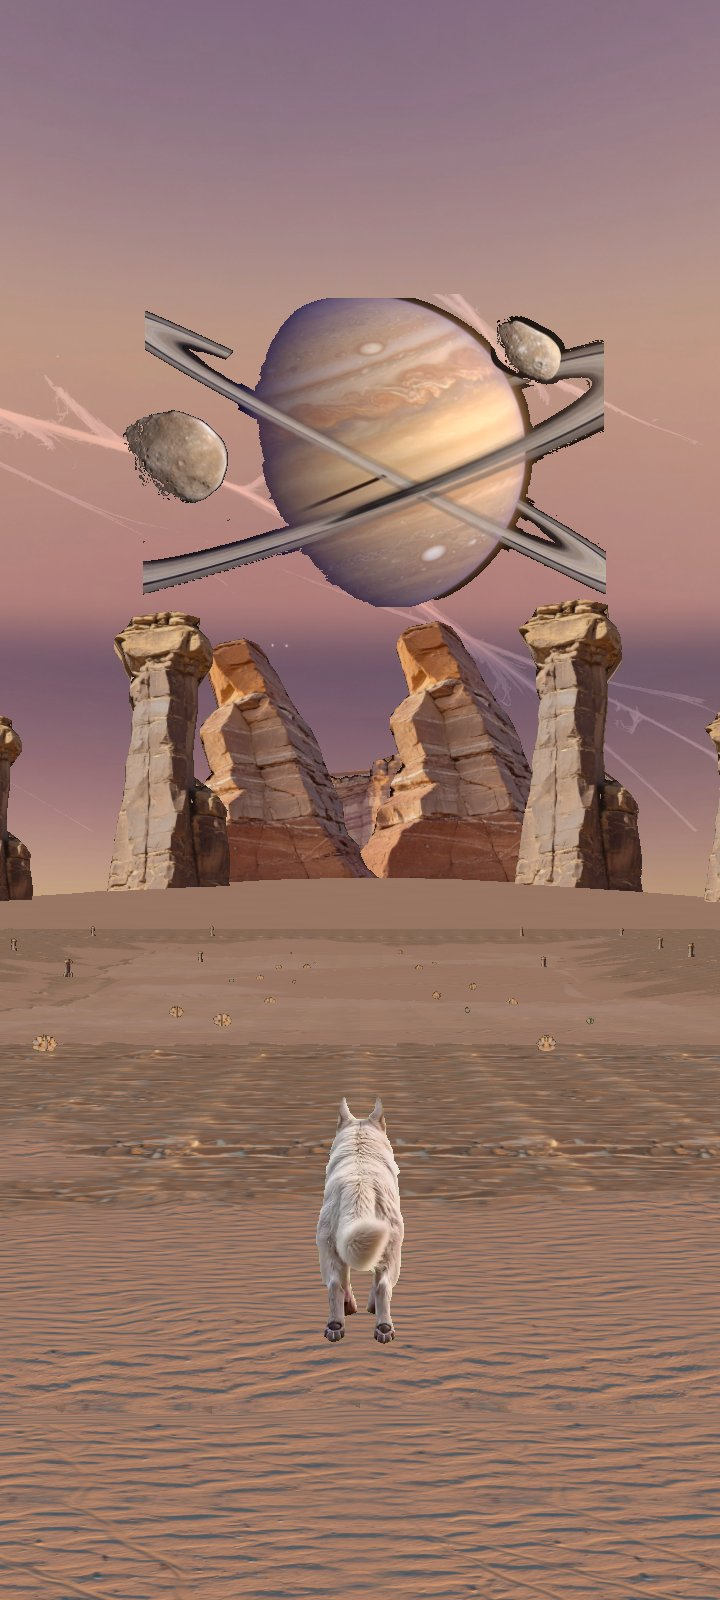
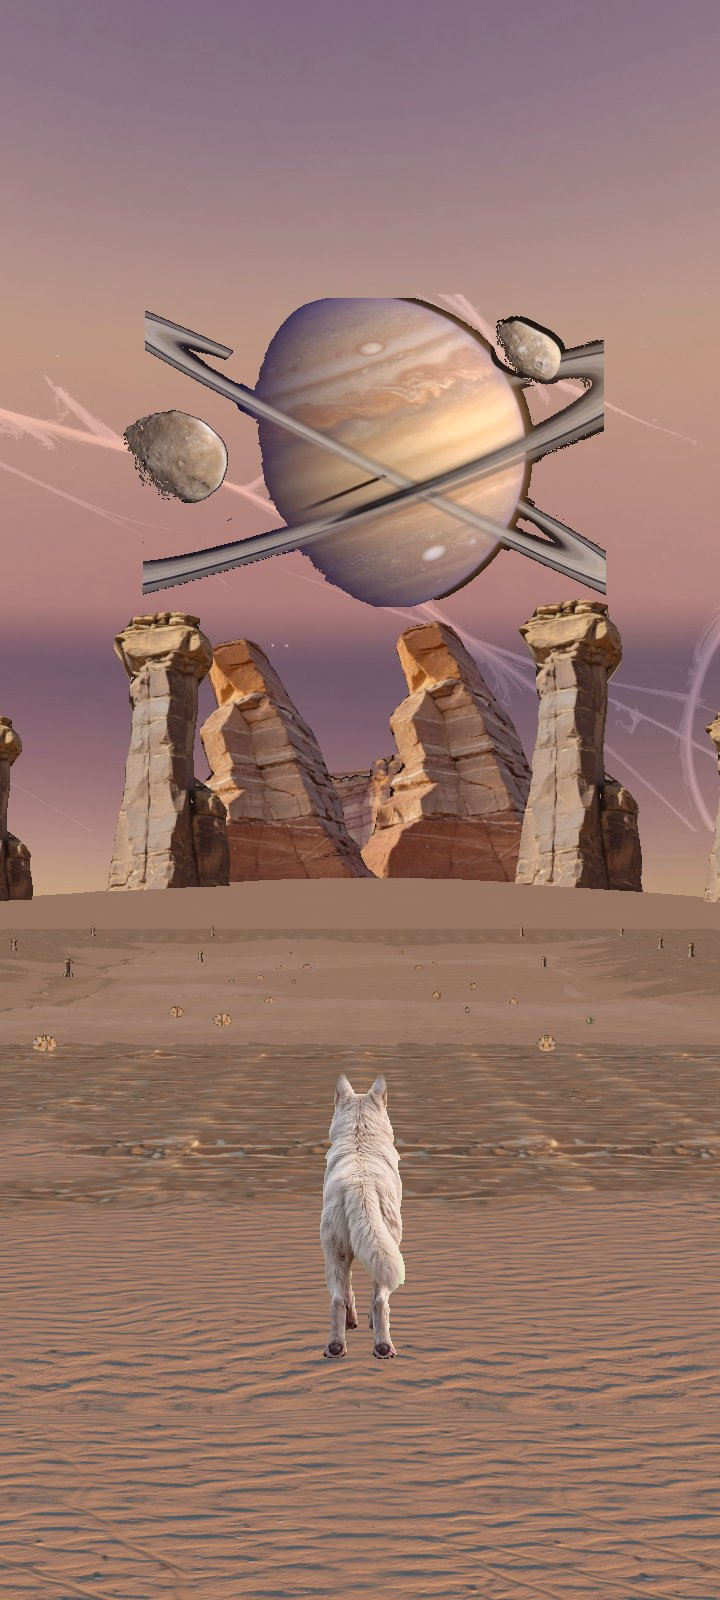
Zone B step 1g: record the layer proofs, the report, and the IN TEST notes.

Changed region(s): [[0.4278, 0.6562, 0.5806, 0.875], [0.9472, 0.375, 1.0, 0.5], [0.9778, 0.5, 1.0, 0.5312]]

diff --git a/docs/METHOD.md b/docs/METHOD.md
@@ -36,7 +36,7 @@ Status words: **APPROVED** = build it this way. **VALIDATED** = an IN TEST candi
 | | **VALIDATED** (SmiR 2026-10-03 21:56 Paris, on the phone, after the seam crossfade fix d74f367, PR #159; same force as APPROVED): the zone A sky as built is the sky recipe. Layout: **unstretched Imagine slices** (magnification ≤ 1, no slice widened past its band's own limit), **13 slices per band** (horizon and upper, about 27.7° each; high 8 × 45°), **neighbour overlap crossfade in the shader** for the vertical seams (the two slices' own pixels, smoothstep, no new pixels), **GPU-instanced video layers with per-tile time offsets** (one decode, one texture, one instanced draw per layer), **closed dome** (bands + cap, no hole at the pole), **parallax layers** (small yaw offset by depth). This layout replaces the 8 × 60° display rail for the sky (this sheet wins). Recipe: [`METHOD/sky.md`](METHOD/sky.md), gate `python3 tools/sky/check.py`. **Accepted known issues** (declared, not blockers; do not spend Imagine quota on them): a faint joint may remain around 19–28° up (horizon/upper overlap); two duplicated upper slices; the streak layer reads as a meteor-rain grid instead of sparse shooting stars; meteor streaks stop or vanish at slice joints (fix in progress locally, separate task); darker zenith centre (the cap painting's own dark centre); a small load regression. | 2026-10-03 |
 | | **VALIDATED 2026-10-03 21:56** (part of the validated sky above; was IN TEST 2026-10-03): those living layers are GPU-instanced tiles (one decode, one texture, one instanced draw per layer) at magnification ≤ 1, with a small yaw parallax by depth and no sky relief. The sky gate fails any slice, cap, or video tile displayed above magnification 1. Recipe: [`METHOD/sky.md`](METHOD/sky.md). | 2026-10-03 |
 | | **VALIDATED 2026-10-03 21:56** (part of the validated sky above; was IN TEST 2026-10-03, step 2c): the sky gate also rejects a repeated, mirrored, copied, or hard-seamed motif inside a slice. Opaque slices may be lossy-encoded. Show the horizon band before the other bands. A bright living shape is keyed from its own pixels onto one tile. | 2026-10-03 |
-| | **IN TEST (SmiR 2026-10-04 18:58, used on zone B step 1f):** replace a busy sky with an emptier base Imagine sky and no baked landmark. Each animated element is its own looping Imagine video on a keyable background, stacked as its own layer. A video window pasted over a full still sky is rejected. The zone B upper gradient is one frame repeated around the ring, so a join can still show (budget closed; not recooked). | 2026-10-04 |
+| | **IN TEST (SmiR 2026-10-04 18:58, used on zone B step 1f):** replace a busy sky with an emptier base Imagine sky and no baked landmark. Each animated element is its own looping Imagine video on a keyable background, stacked as its own layer. A video window pasted over a full still sky is rejected. The zone B upper gradient is one frame repeated around the ring, so a join can still show (budget closed; not recooked). Zone B step 1g stacks one haze loop on four cards beside the planet video. The dome grid is the wrong place for a sparse plate. | 2026-10-04 |
 | **Post** | Light distance fog, one light colour grade per biome, subtle capped bloom on bright Imagine pixels. Phone-cheap, zero quality loss, Bolt never glows. Nothing else computed. Law 67. | 2026-10-02 |
 | **Static solid decor** | Still Imagine image on an **invisible depth relief** (law 59 carrier). | 2026-09-29 |
 | **Living elements** (stars, dust, vapor, lights, glow) | **Keyed seamless-looping Imagine video layers** (first = last frame or ping-pong; never hard-restart). ≤ 4 decoding videos incl. Bolt. | 2026-09-29 |
@@ -45,7 +45,7 @@ Status words: **APPROVED** = build it this way. **VALIDATED** = an IN TEST candi
 | **Hard objects** (ships, gates, wrecks) | **Real 3D the player can walk around.** Flat angle-switching impostors are rejected as the main solution. | 2026-10-02 |
 | | **VALIDATED** (SmiR 2026-10-03 21:36 Paris, on the phone, after PR #161): shapes **measured from Imagine images** (side, top, cross-sections, plates); sections **lofted** into the hull; left/right read separately; holes kept; generic part builder; **one unlit Imagine skin per part**; mid-grey readable skins. Measure images come from Imagine, never drawn by code. The loft is the volume — plates are not a second shell offset along the normal. Each volume part is measured once on `images/measure/` and built once; the skin under it is Imagine plain plating, never a code rectangle. Recipe: [`METHOD/hard-objects.md`](METHOD/hard-objects.md) (Howl frigate, gate `python3 tools/hard-objects/rebuild.py`). **Accepted known issues** (declared, not blockers; do not spend Imagine quota on them): five painted engine circles on `top.jpg`; starboard nozzles still painted on `stbd.jpg`; tower-roof streaks; black faces (bridge side wedge, nacelle inner face, stern edge strips, deck block, bay aft edge); magnification ≤ 1 holds at the aim point only. Bolt stays the Imagine-video wolf and is not drawn by this folder. **Law 59 amended 2026-10-03:** lofted measured-section hulls are an approved invisible carrier; every visible pixel stays unlit Imagine ([law 59](../biome/docs/59-invisible-depth-carrier.md#amendment-2026-10-03-lofted-measured-section-hulls)). | 2026-10-03 |
 | **Zones / biomes** | **3 biomes:** A *The Howling Eclipse* (ship wreck, Eclipse Gate) · B *Ember Mesa* · C *Cascade Verdance*. Each a **large natural organic open zone** (≥ 5× the retired circle, irregular footprint, nooks, natural soft boundaries, **no circles / rings**), joined by **paths with a distance-based fog/grade blend**. Kits: [`biome/kits/`](../biome/kits/README.md). | 2026-10-02 |
-| | **IN TEST (2026-10-04):** `packs/zone-b/` is Ember Mesa ground + sky from the generic recipes. Not a lock. Step 1f replaces the busy slices with an emptier base sky and no baked landmark, and puts the ringed planet on its own keyed Imagine video. The walkable floor is 6,500 m², 143.73 m long, 40.5–47.5 m wide. [`ground.md`](METHOD/ground.md) Part 2b, [`sky.md`](METHOD/sky.md) Part 3. | 2026-10-04 |
+| | **IN TEST (2026-10-04):** `packs/zone-b/` is Ember Mesa ground + sky from the generic recipes. Not a lock. Step 1f replaces the busy slices with an emptier base sky and no baked landmark, and puts the ringed planet on its own keyed Imagine video. The walkable floor is 6,500 m², 143.73 m long, 40.5–47.5 m wide. Step 1g adds canyon walls and a mesa skyline, relief-picked ground materials, 22 cutouts and six fallen blocks, one haze loop, and a replaced planet loop. Still IN TEST. [`ground.md`](METHOD/ground.md) Part 2b, [`sky.md`](METHOD/sky.md) Part 3. | 2026-10-04 |
 | | Ship = **lore / POI, not a vehicle**. Bolt sprints through space powered by the **Lightning Core**. | 2026-10-02 |
 | | **PARKED** narrative frame: each biome is a **Frontier Shard** woken by Bolt's permanent EMP wave (decrees #031, #063, #064). Lore never changes the visual laws. | 2026-10-02 |
 | **Bolt** | Keyed `lock/` gallop + idle breath, automatic IDLE/GALLOP switch, camera behind, one Bolt. `lock/` WARN = informational, never a recook. | 2026-09-20 → 2026-10-01 |

diff --git a/packs/zone-b/proof/step1g/REPORT.md b/packs/zone-b/proof/step1g/REPORT.md
@@ -1,0 +1,76 @@
+Built: canyon walls and a mesa skyline, relief-picked ground materials, lane-side cutouts and fallen blocks, one haze loop, and a replaced planet loop. IN TEST. Not a lock.
+
+Verdict: IN TEST
+
+Checked: root `npm test` exit 0. `tools/playcheck` npm test 43 pass / 0 fail. Live playcheck exit 1, 25 pass / 6 fail, on `clearing/1` (table below). `render_source` passed because this run passed `--source`. Sky `check.py` was not re-run; the step 1f count of 84 failures still stands. Phone 720×1600: presented mag 0.982, planet mag 0.5, drawCalls 8, texture bytes 216551234 (206.5 MiB), active videos 3, WebGL errors 0 on the live walk. heroCount 1.
+
+Imagine calls: 9 images, 3 videos. Budget was 14 and 3. The third video replaced the planet loop after a dark band opened in the first planet file. Pack `packs/zone-b` 31,614,117 bytes (30.1 MiB), under 150 MB. Step 1f pack was 26,494,762 bytes.
+
+Walkable area: 6,500 m². Length 143.73 m. Width at z = 60, 40, 20, 0, −20, −40, −60: 47.5, 44.5, 40.5, 41.5, 44.0, 47.5, 47.0 m. Loop: plaza, slot, basin, wash, outpost, mesa road, return to plaza. The outline was not converted to a circle.
+
+Known issues: the upper gradient, repeated nine times, can show a vertical join, and nothing is painted above 28.88°. The wide pose still shows the ground tile lattice. The loft base still meets the ground on a straight cut. One moon keeps a thin key fringe. `contain()` stops on the outline. Live playcheck on `clearing/1` is the circle schema. Those six rows stay open. Those misses stay.
+
+| row | measured | PASS/FAIL |
+|---|---|---|
+| Look | Chase, slot, basin, and planet-close are 720×1600, HUD off, one planet, videos decoding on those four. Wide is the elevated pose with videos decoding. Planet-close pitch 4.00°, sky time 4.24 s, planet video ready. | PASS |
+| Ground | Area 6500 m². Length 143.73 m. Width 40.5–47.5 m. Boot maxSlope 0.2366 rad (13.56°). Skirt lift 3.5 m. The wide pose still shows the tile lattice. | FAIL |
+| Sky | `check.py` not re-run (step 1f: 84 failures). Haze is four cards, mag 0.75, gain 0.28. Planet heading 180°, elevation 15°, 380 m, mag 0.5, world 135.60×76.28 m, video on. A thin fringe remains on one moon. | FAIL |
+| Magnification | Presented 0.982 on chase, wide, slot, basin, planet-close. Planet 0.5. Ground on chase 0.777. Butte on chase 0.656. | PASS |
+| Perf | drawCalls 8, texMB 206.5 (216551234 bytes), activeVideos 3, WebGL errors 0 on the live walk. HUD off in the proof shots. | PASS |
+| playcheck | Unit tests 43/43. Live circle walk on `clearing/1`: see the table. `mag_max` 0.982. `solids_world_locked` objects=39, pairs=257, identical=1. | FAIL |
+| Gates | npm test exit 0. playcheck npm test 43 pass. Sky check not re-run. Live playcheck exit 1. | FAIL |
+| Docs | sky.md Part 3, ground.md Part 2b, rocks.md Part 3, decisions-log 2026-10-04 step 1g, self-improvement zone B rows, METHOD.md zone B row and the 18:58 sky row. All IN TEST. | PASS |
+| Proof | Layer JPEGs, five final JPEGs at 720×1600, and `map.png` in this folder and in `/workspace/grokcli/out/zoneB/step1g/`. | PASS |
+
+Shots (720×1600 JPEG, canvas `toDataURL`, HUD off), recaptured on the shipped planet loop:
+
+- `chase.jpg` — gallop 12 ticks from spawn, heading 180, pitch −4.85°, mag 0.982. Eye about [0, 1.62, 60.44]. Ground mag 0.777. Butte mag 0.656. Planet video ready. drawCalls 8, texture bytes 216551234, videos 3.
+- `wide.jpg` — `lookAt([-36,16,-20],[33,3.4,38])`, pitch −7.96°, mag 0.982. Ground mag 0.068. Butte mag 0.597. Planet video ready. Videos 3.
+- `slot.jpg` — place (0, 22), heading 180, pitch −4.83°, mag 0.982. Ground mag 0.823. Butte mag 0.499. Eye about [0, 1.23, 29.2]. Planet video ready.
+- `basin.jpg` — place (2, −10), heading 180, pitch −3.03°, mag 0.982. Ground mag 0.825. Butte mag 0.502. Eye about [2.00, 0.76, −2.80]. Planet video ready. Haze time 3.18 s.
+- `planet-close.jpg` — pitch 4.00°, mag 0.982. Eye z 62.2. Planet video ready. Haze time 4.24 s. Same file as `layer5-planet.jpg`.
+- `map.png` — top-down loop.
+
+Layer proofs, committed with each layer: `layer1-chase.jpg`, `layer2-chase.jpg`, `layer3-details.jpg`, `layer4-haze.jpg`, `layer5-planet.jpg`.
+
+Boot `groundInfo` on the chase: tris 57774, verts 30442, area 6500, minH −3.144, maxH 8.745, maxSlope 0.2366 rad. Mesa: count 39, layers 8, tex 1280×1280, tris 8502, uploadError 0, sink 2.6 m.
+
+Run: `python3 -m http.server 8766 --bind 127.0.0.1` from this worktree. Play URL: `http://127.0.0.1:8766/packs/zone-b/play/index.html`. Root `npm test` exit 0. `cd tools/playcheck && npm test` 43 pass / 0 fail.
+
+Live playcheck (`node tools/playcheck/run --url http://127.0.0.1:8766/packs/zone-b/play/index.html --layout packs/zone-b/clearing.json --no-video --source packs/zone-b/play/play.js`, out `tools/playcheck/out/2026-10-04T20-10-05-715Z`, gitignored): exit 1. Result FAIL, 25 pass / 6 fail. The layout was not converted to `clearing/2`. The tool appended `?debug=1` on its own URL. The proof JPEGs were shot without that query, and the HUD was `none`.
+
+| row | result | numbers |
+|---|---|---|
+| webgl_errors | PASS | count=0 |
+| webgl_clean | PASS | count=0 |
+| mag_max | PASS | mag_max=0.982, at=01-spawn, limit=1, missing=0 |
+| mag | PASS | mag_max=0.982, at=01-spawn, limit=1, missing=0 |
+| fix_hint | PASS | reportOnly |
+| stops_visible | FAIL | stops=8, invisible=8 |
+| collider_eq_visual | FAIL | tolerance_m=0.5, stops=8, bad=8 |
+| solids_world_locked | FAIL | objects=39, pairs=257, identical=1 |
+| layout_rendered | PASS | objects=0 |
+| ring_closed | FAIL | dataHits=0, dataMissCount=360, renderHeadings=36, renderMiss=36 |
+| gate | FAIL | empty detail |
+| near_lens | PASS | nearest_m=80 |
+| fog_band | FAIL | patches=0, fogPixels=0 |
+| black_regions | PASS | hitCount=0 |
+| tile_repeat | PASS | worstPeak=0.946, worstLag=4, worstAt=03-gate-start |
+| backdrop_res | PASS | mag=0.991, sourceH=720 |
+| single_hero | PASS | heroCount=1, frames=128 |
+| single_bolt | PASS | |
+| idle_gallop_switch | PASS | |
+| fullscreen | PASS | 720×1600 |
+| debug_hook | PASS | |
+| fps_avg | PASS | informational, software GL, fpsAvg=10.66 |
+| fps_1low | PASS | informational, software GL |
+| frame_ms | PASS | informational, software GL |
+| js_heap | PASS | heap not reported |
+| texture_mem | PASS | 216551234 bytes |
+| video_decoders | PASS | 3 |
+| active_videos | PASS | 3 |
+| draw_calls | PASS | 8 |
+| perf_line | PASS | texMB=206.519, activeVideos=3 |
+| render_source | PASS | scanned=true, files=1, findings=0 |
+
+Layer commits: `9364283` walls, `ad16d10` ground, `de81922` cutouts, `1c416cf` haze, `bcd42df` first planet loop, `e266efb` replacement planet loop.

diff --git a/docs/METHOD/self-improvement.md b/docs/METHOD/self-improvement.md
@@ -88,5 +88,5 @@ slides back.
 | Hard objects | **v1** — Howl frigate, measured-section loft, one unlit Imagine skin per part | PRs #161 / #163, [`hard-objects.md`](hard-objects.md) | **VALIDATED** SmiR 2026-10-03 21:36 (phone) | Gate `python3 tools/hard-objects/rebuild.py`. Known issues in METHOD.md. |
 | Rocks | **v1** — kit-driven TerrainFeatureGenerator, zone A kit `howling-eclipse` | PR #162, [`rocks.md`](rocks.md) | IN TEST (merged, phone QC open) | `tools/rocks/selftest.py` PASS. Known issues: skins mag 1.15–1.32 up close, one shape per type, crest hull not carved. |
 | Ground | **v1** — current zone A relief ground with Imagine materials and image-depth micro relief | PR #156, [`ground.md`](ground.md) | Look APPROVED 2026-10-03; not VALIDATED | Pending: the slope fix (≤ 3 m / ≥ 20 m, ≤ 15°) as v2, validated on the phone. |
-| Ground | zone B candidate — Ember Mesa, 6,500 m² canyon, three families, image-depth maps, no cutouts, skirt rise 3.5 m, fog mix 0.18, post fog cap 0.08, three lofts seated outside the outline | `packs/zone-b/` | IN TEST (does not replace v1) | Step 1f. Length 143.73 m, width 40.5–47.5 m. Boot maxSlope 0.227 rad. Presented mag 0.982. The crack lattice still reads. The loft base still meets the ground as a straight cut. No phone review. |
-| Sky | zone B candidate — 9×40° emptier horizon (−10.493°–10.493°) plus one upper gradient repeated ×9 (7.893°–28.88°), ringed planet as its own keyed video, mag 0.5 | `packs/zone-b/src/sky/sky.json` | IN TEST (does not replace v1) | Step 1f. `check.py` 84 failures (eight horizon files are one frame). Play mag 0.982. Planet heading 180°, elevation 15°, 380 m. Hole above 28.88°. A repeated upper tile can show a vertical join. |
+| Ground | zone B candidate — Ember Mesa, 6,500 m² canyon, relief-picked materials, image-depth maps, 22 cutouts, skirt rise 3.5 m, fog mix 0.18, post fog cap 0.08, canyon walls and a skyline seated on the loft | `packs/zone-b/` | IN TEST (does not replace v1) | Step 1g. Length 143.73 m, width 40.5–47.5 m. Boot maxSlope 0.2366 rad. Presented mag 0.982. The wide view still shows the tile lattice. The loft base still meets the ground as a straight cut. No phone review. |
+| Sky | zone B candidate — 9×40° emptier horizon (−10.493°–10.493°) plus one upper gradient repeated ×9 (7.893°–28.88°), one haze loop on four cards, ringed planet as its own keyed video, mag 0.5 | `packs/zone-b/src/sky/sky.json` | IN TEST (does not replace v1) | Step 1g. `check.py` was not re-run; step 1f still stands at 84 failures. Play mag 0.982. Planet heading 180°, elevation 15°, 380 m. Haze gain 0.28, four cards, mag 0.75. Hole above 28.88°. Active videos 3. A thin key fringe remains on one moon. |

diff --git a/learn/failures.md b/learn/failures.md
@@ -461,3 +461,25 @@ Leave a field blank when the repo does not say it. Do not fill it.
 | Fix | Stop. Do not move the loft inside the floor. Do not recook the faces. The centres stay 25 m outside the outline. |
 | Guard | No row grades seating. The mesa JPEG is the check. Butte magnification on the chase budget pose is 0.461. |
 | Sources | `packs/zone-b/play/field.js` `BUTTES`, `packs/zone-b/play/mesas.js`. Shots in `packs/zone-b/proof/step1f/mesa.jpg`. |
+
+### 2026-10-04 — a sparse haze plate on the dome grid reads as a scratch field
+
+| | |
+| --- | --- |
+| Take | Zone B step 1g. Haze loop. |
+| Defect | The first haze proof was a field of white scratches across the sky. |
+| Root cause | The loop was drawn on the existing 17×8 dome grid. Each tile shows a different crop of one sparse plate, so the same wisp repeats as a grid. |
+| Fix | Four cards around the compass, magnification 0.75, elevation centre 11°, scroll 0. The video's own motion is the drift. Gain 0.28, key 0.16. |
+| Guard | No row rejects a living layer that is tiled smaller than its frame. The haze JPEG is the check. |
+| Sources | `packs/zone-b/play/play.js` `ensureHazeCards`. `packs/zone-b/src/sky/sky.json`. Shot `packs/zone-b/proof/step1g/layer4-haze.jpg`. |
+
+### 2026-10-04 — a dark band in the planet video opens a hole, and the key fringes a moon
+
+| | |
+| --- | --- |
+| Take | Zone B step 1g. Planet loop. |
+| Defect | Mid-loop frames of the first planet video showed a dark oval in the disk. The neighbour key also ate a moon where the disk was darker than the test. The replacement loop is solid. One moon still has a thin jagged fringe. |
+| Root cause | The oval was in the video, not only in the key. The neighbour test discards a texel under luma 0.188 unless a neighbour about 9 px away is at least luma 0.353. A dark feature wider than that span is discarded. The second loop's body stays lighter than that floor. The fringe is the key meeting the moon's edge. |
+| Fix | Stop. The video budget is spent (3 of 3). Do not change the key again. Do not recook the planet. |
+| Guard | No row reads the disk for a hole. The planet-close JPEG is the check. |
+| Sources | `packs/zone-b/src/sky/planet-body.mp4`. `packs/zone-b/play/play.js` key 4. Shot `packs/zone-b/proof/step1g/planet-close.jpg`. |

diff --git a/docs/METHOD/decisions-log.md b/docs/METHOD/decisions-log.md
@@ -55,6 +55,7 @@ a change is a new row that cites the old one. Times are Paris.
 | 2026-10-04 | Zone B step 1e phone pass, still IN TEST. The three near buttes are one loft of Imagine faces on measured geometry, base sunk 1.8 m, using the validated hard-object method ([`hard-objects.md`](hard-objects.md), PR #161). Far painted mesas stay in the sky slices. The planet card keeps the step 1d place and the still's size. A video colours only the disk. Rings and moons stay the still. Skirt lift stays 28 m. Not a lock. | IN TEST | SmiR 2026-10-04, branch `zone-b-step1-ground-sky`, step 1e |
 | 2026-10-04 18:58 | Sky method for a calm zone: an emptier base Imagine sky, no baked landmark, then each animated element as its own looping Imagine video on a keyable background. A video window on a full still sky is rejected. | IN TEST | SmiR 2026-10-04 18:58 |
 | 2026-10-04 | Zone B step 1f, still IN TEST. Emptier horizon (9×40°) and one upper gradient repeated nine times. The ringed planet and both moons are one keyed video at heading 180°, elevation 15°, 380 m, magnification 0.5. Walkable floor 6,500 m², length 143.73 m, width 40.5–47.5 m. Far skirt lift 3.5 m. Post fog density 0.0012, cap 0.08. Not a lock. | IN TEST | SmiR 2026-10-04, branch `zone-b-step1-ground-sky`, step 1f |
+| 2026-10-04 | Zone B step 1g, still IN TEST. Canyon walls and a far mesa skyline are seated Imagine cards on the loft. Ground materials follow the relief. Twenty-two keyed cutouts and six fallen blocks sit beside the lane. One haze loop uses four cards. The planet loop was replaced once after a dark band opened in the disk. The walkable floor stays 6,500 m². Not a lock. | IN TEST | SmiR 2026-10-04 21:12, branch `zone-b-step1-ground-sky`, step 1g |
 
 ## Contradictions found (2026-10-03 sweep)
 

diff --git a/docs/METHOD/sky.md b/docs/METHOD/sky.md
@@ -203,6 +203,10 @@ The ringed planet and both moons are one card, `planet-body.png` plus `planet-bo
 
 `python3 tools/sky/check.py --manifest packs/zone-b/src/sky/sky.json` (2026-10-04, step 1f): 84 failures. Eight horizon files are the same frame. The sun slice is the other frame. Joins, motif, and exposure swing 38.7 fail. That copy is the closed image budget. The upper gradient is not flat across its width, so a heading that puts a tile join in frame shows a vertical step. Stop. Do not recook it on this budget.
 
+**Ember Mesa (zone B step 1g) — detail layers, IN TEST.** 2026-10-04. Not a lock. Does not replace sky v1. Slice files were not recooked. `check.py` was not re-run, so the 84 failures above still stand.
+
+One haze loop, `haze.mp4` (1280×720, 6.042 s, 1,760,694 bytes), gain 0.28, key 0.16. Four cards around the compass, magnification 0.75, elevation centre 11°, scroll 0. The 17×8 dome grid repeated the plate into a scratch field, so the haze is not on that grid. The planet card stays at heading 180°, elevation 15°, distance 380 m, magnification 0.5, world size 135.60 m × 76.28 m. `planet-body.mp4` is the replacement loop (1,216,058 bytes, 1280×720, 6.042 s) after a dark band opened in the first loop. The key is unchanged. A thin fringe remains on one moon. Stop. The video budget for this step is spent. Active videos 3 (Bolt, haze, planet). drawCalls 8. Texture bytes 216551234 (206.5 MiB). Presented magnification 0.982. Pack `packs/zone-b` is 31,611,131 bytes.
+
 **Cascade Verdance.** Same skeleton. The horizon band keeps a soft tree line with no landmark. Living layers lean on the mist loop rather than a bright nebula, still at magnification ≤ 1 and still one instanced draw. The cap is canopy-gap sky, not a black disk.
 
 ## Pitfalls

diff --git a/docs/METHOD/ground.md b/docs/METHOD/ground.md
@@ -259,6 +259,10 @@ The three lofts stay outside the outline so a phone view does not enlarge them: 
 
 Post fog, set after the kit copy: density 0.0012, cap 0.08. Ground fog mix stays 0.18. Micro cutouts are still none. Spawn (0, 55), heading 180.
 
+**Step 1g (2026-10-04) — IN TEST.** The walkable outline, the area, the length, and the widths are unchanged. `TILE` stays 1.42 m. The value-noise mix of a third family is gone. `familyBlend` picks two even slots by place: open floor is sand (slot 2), the rim is rock blended to sand, the wash and the slot are gravel (slot 6), clay (slot 4) sits only on the basin sides, the basin is sand blended toward gravel, and the shelves are rock. Dune amplitude is 0.65. The berm is 1.35 m over the last 14 m, and it fades where a butte mound is already the rise. A 1.55 m berm measured 16.07° and was put back. Boot `groundInfo`: tris 57774, verts 30442, minH −3.144, maxH 8.745, maxSlope 0.2366 rad (13.56°). The wide pose still shows the tile lattice. Stop. Do not shift UV. Do not rerun `prep.py` on this pack; that path restores the old tile map.
+
+Twenty-two keyed cutouts flank the lane (pebble height 0.26 m, tuft height 0.18 m). Six fallen blocks are touch cards, height 0.9–1.15 m. Canyon walls and the far skyline are the other cards: 39 cards in all (2 slot, 10 skyline, 4 wall, 2 basin, 15 rim, 6 block). Twenty-one are touch. One loft draw. Texture array 1280×1280, 8 layers, 8502 tris, uploadError 0, sink 2.6 m. The straight loft cut remains. `contain()` still stops on the outline. Spawn (0, 55), heading 180.
+
 ### 11. How B and C would fill the template (material ideas only; words go to their local file)
 
 | Role | B Ember Mesa (`ember-mesa`, golden hour) | C Cascade Verdance (`cascade-verdance`, morning) |

diff --git a/learn/taste.md b/learn/taste.md
@@ -42,3 +42,4 @@ Append a row at the bottom. Do not rewrite an old row. Verdict is KEEP, FAIL, or
 | 2026-10-03 | Camera shake while Bolt gallops | FAIL | no camera shake, ever | The chase must not snap the eye from frame to frame. |
 | 2026-10-03 | Sky living layers that do not read | FAIL | there are no videos, it's just images | A living layer has to move where the player looks, without covering the paintings in rectangles. |
 | 2026-10-04 | Zone B sky, the ringed planet, and the canyon floor | FAIL | "make the sky calmer, add the ringed planet spinning with its moons as its own Imagine video, and make the canyon way bigger so Bolt can really run." | An emptier base sky. The planet is its own keyed video. The floor has to be large enough to run. |
+| 2026-10-04 | Zone B step 1f look: empty plain, missing canyon walls, flat sky, clip-art planet | FAIL | "add detail layers little by little, and make the planet look much more realistic." | Add detail in layers. The planet has to read as a photograph, with lighting that matches the sun. |

diff --git a/docs/METHOD/rocks.md b/docs/METHOD/rocks.md
@@ -118,6 +118,8 @@ Same generator. New numbers file, new Imagine kit, same corridor rule tuned to t
 | Stone | sharp scree chunk | small slate shard |
 | Pebble | desert chips and a grit clump, ≤ 30 cm | wet pebbles and a moss cap, ≤ 30 cm |
 
+**Zone B step 1g (2026-10-04) — IN TEST.** This pass did not run `tools/rocks/build.py`. It placed 22 upright keyed cutouts (`pile.png`, `tuft.png`, heights 0.26 m and 0.18 m) beside the lane, and six touch blocks on the loft. The lane in front of the paws stays clear. This does not replace the zone A rocks recipe.
+
 ## Pitfalls
 
 - A long ridge fails the area lock between front and side. Cook a compact outcrop, about as deep as wide.
